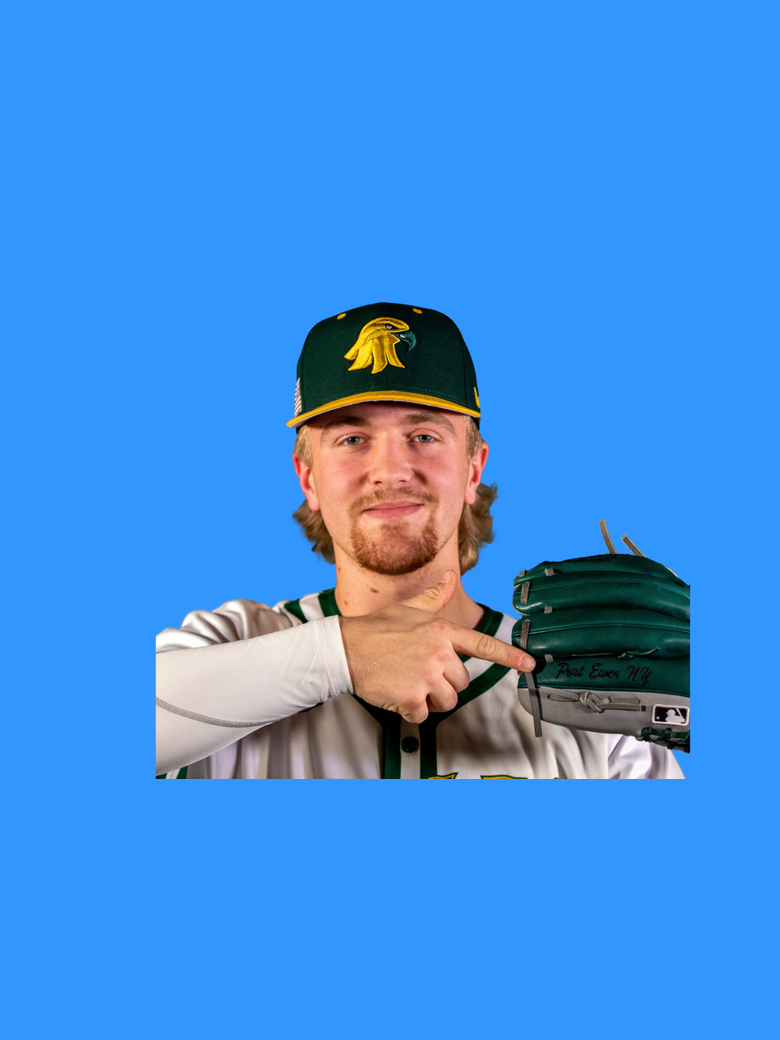
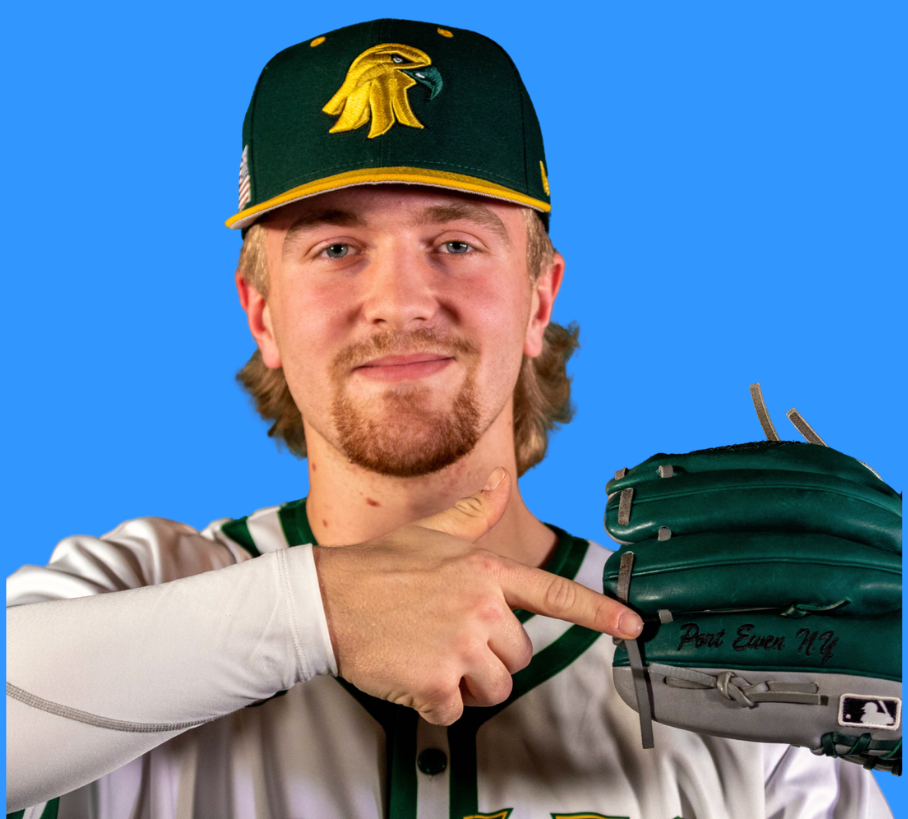
Crop Nick so his shoulders meet the card frame.
Replace the letterboxed 3:4 plate with a tight crop and match the photo well to that shape.

diff --git a/src/app/globals.css b/src/app/globals.css
@@ -1318,6 +1318,9 @@ html.glove-cursor * {
   background: #3295fb;
   border: 2px solid #0f1a2e;
 }
+.bb-card-nick .bb-card-photo {
+  aspect-ratio: 908 / 819;
+}
 .bb-card-img {
   object-fit: cover;
   object-position: center center;
